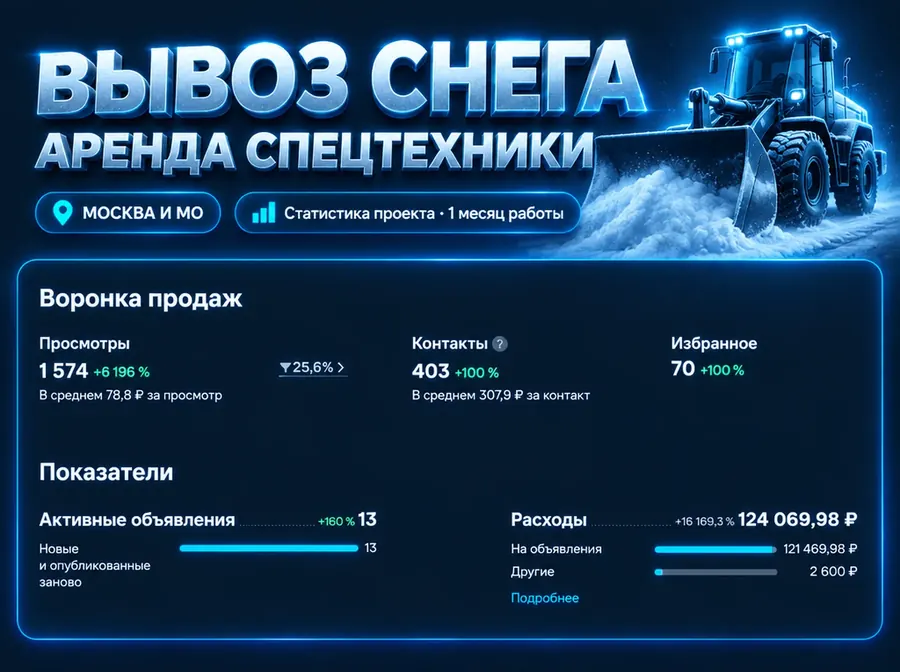
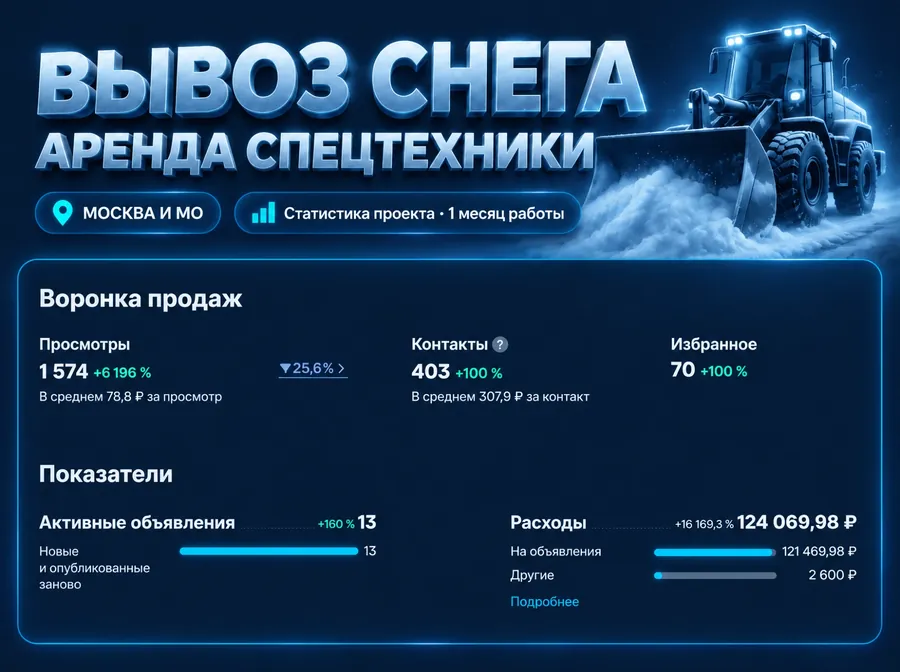
Новый кейс «Вывоз снега и аренда спецтехники», исправлены пробелы у кейса на страницах ниш
На телефоне правило «две колонки» перебивало мобильное и сжимало пояснение
в узкую колонку, из-за чего вокруг карточки кейса появлялись огромные пробелы.

Claude-Session: https://claude.ai/code/session_01N8cvsG8PagZ4u6pUsGjebZ

diff --git a/avtoservis/index.html b/avtoservis/index.html
@@ -2754,7 +2754,8 @@
   <style>
     /* ===== Ниши с 1–2 кейсами ===== */
     .nc-grid.n2 { grid-template-columns: repeat(2, minmax(0, 1fr)); }
-    .nc-split { display: grid; grid-template-columns: minmax(0, 520px) minmax(0, 1fr); gap: 18px 28px; align-items: center; }
+    .nc-split { display: grid; grid-template-columns: minmax(0, 1fr); gap: 18px 28px; align-items: center; }
+    @media (min-width: 961px) { .nc-split { grid-template-columns: minmax(0, 520px) minmax(0, 1fr); } }
     .nc-split .nc-grid { grid-template-columns: minmax(0, 1fr); }
     .nc-split .nc-note { margin: 0; }
     #case-dialog.one .dlg-nav { display: none; }

diff --git a/kuzovnoj-remont/index.html b/kuzovnoj-remont/index.html
@@ -2754,7 +2754,8 @@
   <style>
     /* ===== Ниши с 1–2 кейсами ===== */
     .nc-grid.n2 { grid-template-columns: repeat(2, minmax(0, 1fr)); }
-    .nc-split { display: grid; grid-template-columns: minmax(0, 520px) minmax(0, 1fr); gap: 18px 28px; align-items: center; }
+    .nc-split { display: grid; grid-template-columns: minmax(0, 1fr); gap: 18px 28px; align-items: center; }
+    @media (min-width: 961px) { .nc-split { grid-template-columns: minmax(0, 520px) minmax(0, 1fr); } }
     .nc-split .nc-grid { grid-template-columns: minmax(0, 1fr); }
     .nc-split .nc-note { margin: 0; }
     #case-dialog.one .dlg-nav { display: none; }

diff --git a/vyvoz-musora/index.html b/vyvoz-musora/index.html
@@ -2754,7 +2754,8 @@
   <style>
     /* ===== Ниши с 1–2 кейсами ===== */
     .nc-grid.n2 { grid-template-columns: repeat(2, minmax(0, 1fr)); }
-    .nc-split { display: grid; grid-template-columns: minmax(0, 520px) minmax(0, 1fr); gap: 18px 28px; align-items: center; }
+    .nc-split { display: grid; grid-template-columns: minmax(0, 1fr); gap: 18px 28px; align-items: center; }
+    @media (min-width: 961px) { .nc-split { grid-template-columns: minmax(0, 520px) minmax(0, 1fr); } }
     .nc-split .nc-grid { grid-template-columns: minmax(0, 1fr); }
     .nc-split .nc-note { margin: 0; }
     #case-dialog.one .dlg-nav { display: none; }
